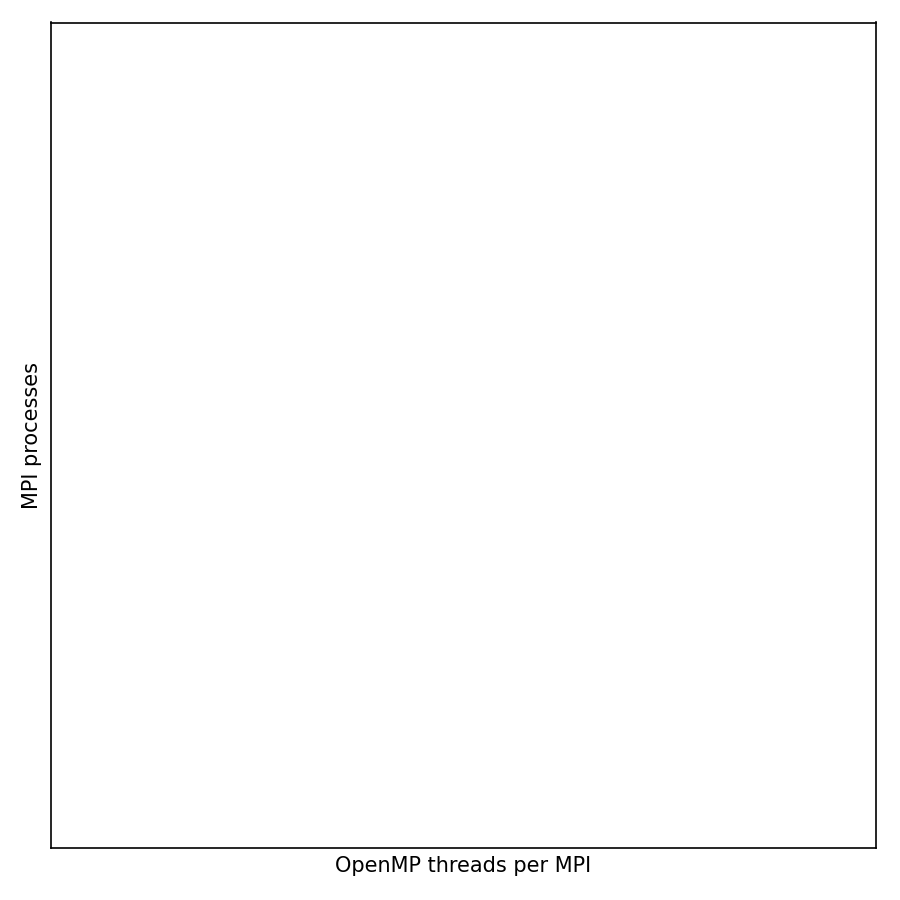
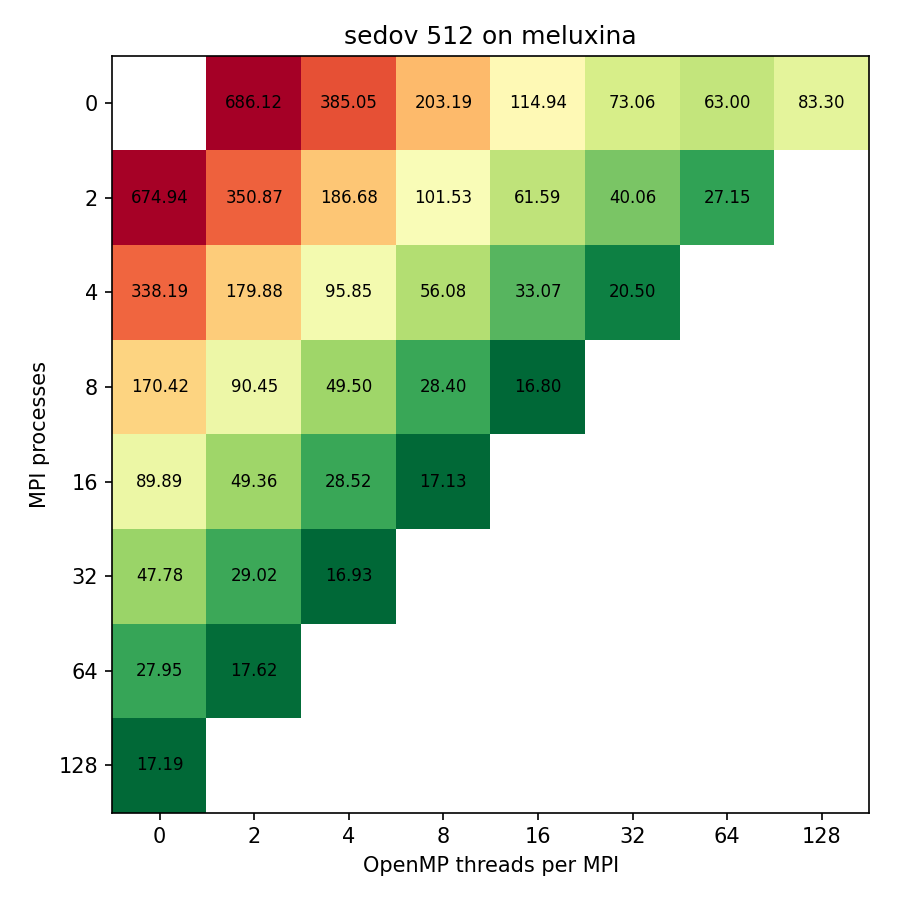
add memory info to report page

diff --git a/analysis/report_scaling.py b/analysis/report_scaling.py
@@ -8,6 +8,7 @@ from scaling_strong import plot_strong_scaling, table_strong_scaling
 from scaling_weak import plot_weak_scaling, table_weak_scaling
 from scaling_combo import plot_scaling_combo_inverse
 from openmp_config_grid import plot_mpi_omp_grid
+from memory import plot_memory, table_memory
 import argparse
 
 #---------- INPUT ------------
@@ -144,9 +145,11 @@ using the full compute node.
 ######### In this part, we deal with the latest OpenMP version #########
 data = load_latest_openmp_data(args.cluster, args.benchmark, timer)
 
-md += f"""## Optimal OpenMP configuration
+md += f"""## OpenMP configuration guidelines
 
 """ 
+
+#--------- MPI-OpenMP config grid for execution time on 1 node ------------
 
 for reso in resos:
 
@@ -160,16 +163,50 @@ for reso in resos:
 """
     
 md += f"""
-This figure gives inside in the behaviour of OpenMP for this setup.
-It shows which MPI - OpenMP configuration is most optimal
-in terms of execution time, for this setup at this resolution.
-The data is for the latest OpenMP version, corresponding to the one
-used for the previous figures.
+These figures give inside in the behaviour of OpenMP for different resolutions of this setup.
+Shows is which MPI - OpenMP configuration is most optimal in terms of execution time.
+The data is for the latest OpenMP version 
+(commit {data[0]['metadata']['commit']} on branch {data[0]['metadata']['branch']})
+, corresponding to the version used for the previous figures.
 
 """ 
 
+#--------- Memory ------------
 
-# Write markdown page
+reso = resos[-1]
+
+filename = f'../results/images/memory_{args.benchmark}_{reso}_{args.cluster}.png'
+plot_memory(data, reso, outname=filename)
+
+table_md = table_memory(data, reso, fmt='markdown')
+
+md += f"""## Memory usage
+
+![Memory usage]({filename})
+
+This figure shows the approximate memory per node needed to perform the simulation,
+as derived from the log-file outputted by the code. Remark that the actual memory
+allocated for the run on the node will be higher, depending on the percentage of 
+the allocated ngridmax grids is actually used.
+We show the consumption for a different number of OpenMP threads. 
+Memory consumption is lower with OMP, due to
+the reduced number of ghostzone cells needed to describe the boundaries of the 
+MPI-domains.
+
+The table lists the corresponding memory values in GB.
+The last column lists the improvement of the OpenMP version with respect to the 
+MPI-only version, that is the most optimistic fraction of the MPI-only memory that is needed 
+when running with hybrid parallelisation.
+
+Unless otherwise stated, data is for runs using full compute nodes.
+
+{table_md}
+
+"""
+
+
+#--------- Write markdown page ------------
+
 outfile = f"../results/results_{args.benchmark}_{args.cluster}.md"
 with open(outfile, 'w') as f:
     f.write(md)

diff --git a/analysis/memory.py b/analysis/memory.py
@@ -100,11 +100,17 @@ def table_memory(data, reso, fmt='markdown'):
 
     out = io.StringIO()
 
-    # TODO header
+    # ---------- Gather table entries for all number of OMP threads ----------
 
     # extract results from data
     results = gather_memory_results(data,reso)
+    # remove OMP-only entries, since the memory isn't outputted when running without MPI
+    if 112 in results.keys():
+        results.pop(112)
+    if 128 in results.keys():
+        results.pop(128)
     used_omp = sorted(results.keys())
+
 
     # gather number of nodes
     arr_nodes = []
@@ -113,20 +119,60 @@ def table_memory(data, reso, fmt='markdown'):
     arr_nodes = set(arr_nodes)
     arr_nodes = sorted(list(arr_nodes))
 
+    # ---------- Header ----------
+
+    omp_labels = [f'OMP={omp}' for omp in used_omp]
+    if omp_labels[0]=='OMP=0':
+        omp_labels[0] = 'MPI-only'
+
+    ncols = len(used_omp) + 2
+
+    if fmt == 'markdown':
+        header = ( "| nodes | "  + " | ".join(omp_labels) + " | best |")
+        sep = "|" + "---|"*ncols
+        print(header, file=out)
+        print(sep, file=out)
+
+    elif fmt == 'latex':
+        header = ("nodes & " + " & ".join(omp_labels) + r" & best \\")
+        print(r"\begin{tabular}{" + "l"*ncols + "}", file=out)
+        print(r"\hline", file=out)
+        print(header, file=out)
+        print(r"\hline", file=out)
+
+    else:
+        raise ValueError("[table_execution_time] fmt must be 'markdown' or 'latex'")
+
+
     # ---------- Print table row by row ----------
 
     for nodes in arr_nodes:
         row = [str(nodes)]
 
+        min_memory = np.inf
         for omp in used_omp:
             # get the entry or put a dash when no entry is available
             try:
                 index = results[omp][0].index(nodes)
                 mem = results[omp][1][index]
-                value = f'{mem:.2f}'
+                # assemble entry
+                if mem==0: # can happen in case of OMP-only or serial
+                    value = '-'
+                else:
+                    value = f'{mem:.2f} GB'
+                    min_memory = min(min_memory, mem)
             except:
                 value = '-'
             row.append(value)
+
+        # compute % improvement of OMP w.r.t. MPI-only
+        try:
+            index = results[0][0].index(nodes)
+            improvement = min_memory/results[0][1][index] * 100
+            row.append(f'{improvement:.1f} %')
+        except:
+            row.append('-')
+
 
         if fmt == 'markdown':
             print("| " + " | ".join(row) + " |", file=out)

diff --git a/results/results_sedov_meluxina.md b/results/results_sedov_meluxina.md
@@ -81,16 +81,49 @@ using the full compute node.
 | 64 | 1024 | 0.941  | 0.917  | 0.915  | 0.849  | 0.847 (MPI=64 OMP=2) |
 
 
-## Optimal OpenMP configuration
+## OpenMP configuration guidelines
 
 ![MPI-OMP](../results/images/mpi_omp_grid_sedov_256_total_meluxina.png)
+
+![MPI-OMP](../results/images/mpi_omp_grid_sedov_512_total_meluxina.png)
 
 ![MPI-OMP](../results/images/mpi_omp_grid_sedov_1024_total_meluxina.png)
 
 
-This figure gives inside in the behaviour of OpenMP for this setup.
-It shows which MPI - OpenMP configuration is most optimal
-in terms of execution time, for this setup at this resolution.
-The data is for the latest OpenMP version, corresponding to the one
-used for the previous figures.
+These figures give inside in the behaviour of OpenMP for different resolutions of this setup.
+Shows is which MPI - OpenMP configuration is most optimal in terms of execution time.
+The data is for the latest OpenMP version 
+(commit e9846974 on branch openmp)
+, corresponding to the version used for the previous figures.
+
+## Memory usage
+
+![Memory usage](../results/images/memory_sedov_1024_meluxina.png)
+
+This figure shows the approximate memory per node needed to perform the simulation,
+as derived from the log-file outputted by the code. Remark that the actual memory
+allocated for the run on the node will be higher, depending on the percentage of 
+the allocated ngridmax grids is actually used.
+We show the consumption for a different number of OpenMP threads. 
+Memory consumption is lower with OMP, due to
+the reduced number of ghostzone cells needed to describe the boundaries of the 
+MPI-domains.
+
+The table lists the corresponding memory values in GB.
+The last column lists the improvement of the OpenMP version with respect to the 
+MPI-only version, that is the most optimistic fraction of the MPI-only memory that is needed 
+when running with hybrid parallelisation.
+
+Unless otherwise stated, data is for runs using full compute nodes.
+
+| nodes | MPI-only | OMP=2 | OMP=4 | OMP=8 | OMP=16 | OMP=32 | OMP=64 | best |
+|---|---|---|---|---|---|---|---|---|
+| 1 | 207.74 GB | 198.98 GB | 195.07 GB | 192.91 GB | 191.70 GB | 191.00 GB | 190.53 GB | 91.7 % |
+| 2 | 116.62 GB | 104.51 GB | 99.71 GB | 97.66 GB | 96.85 GB | - | - | 83.0 % |
+| 4 | 67.35 GB | 58.27 GB | 52.29 GB | 50.02 GB | 49.22 GB | - | - | 73.1 % |
+| 8 | 43.55 GB | 33.82 GB | 29.07 GB | 26.29 GB | 25.02 GB | - | - | 57.4 % |
+| 16 | 32.88 GB | 21.89 GB | 16.86 GB | 14.63 GB | 13.13 GB | - | - | 39.9 % |
+| 32 | 29.59 GB | 16.56 GB | 10.94 GB | 8.51 GB | 7.34 GB | - | - | 24.8 % |
+| 64 | 33.18 GB | 14.89 GB | 8.25 GB | 5.50 GB | 4.29 GB | - | - | 12.9 % |
+
 
